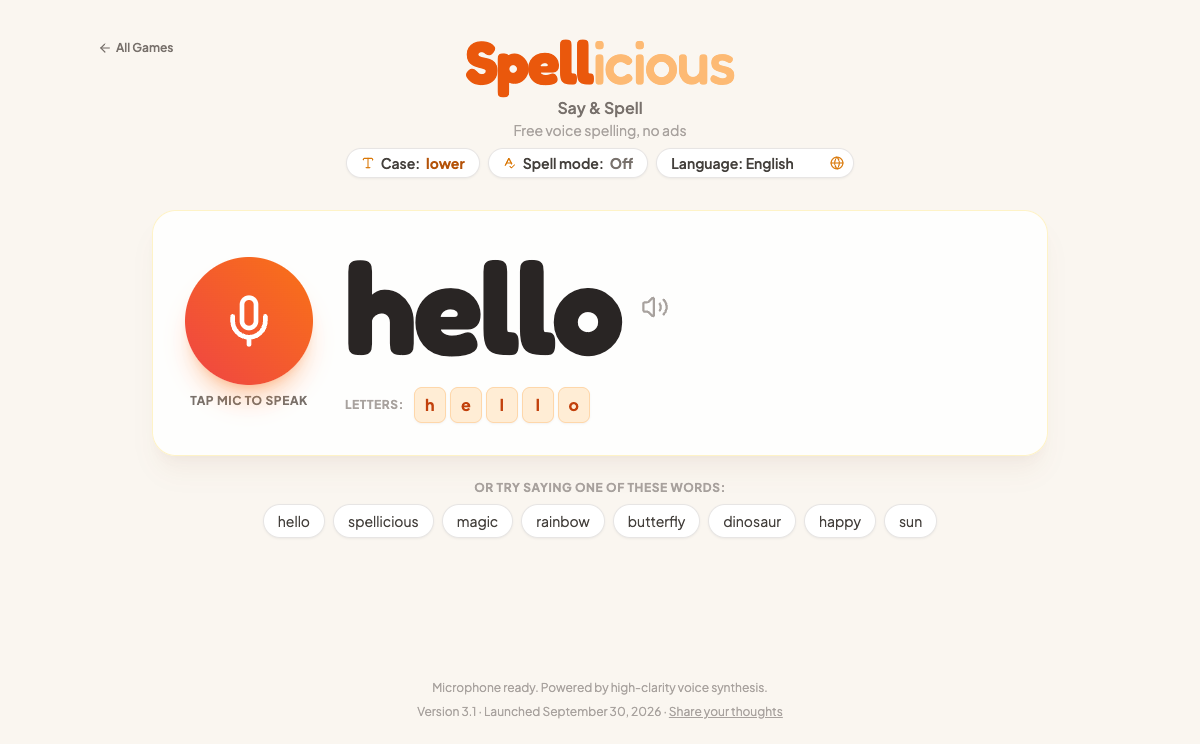
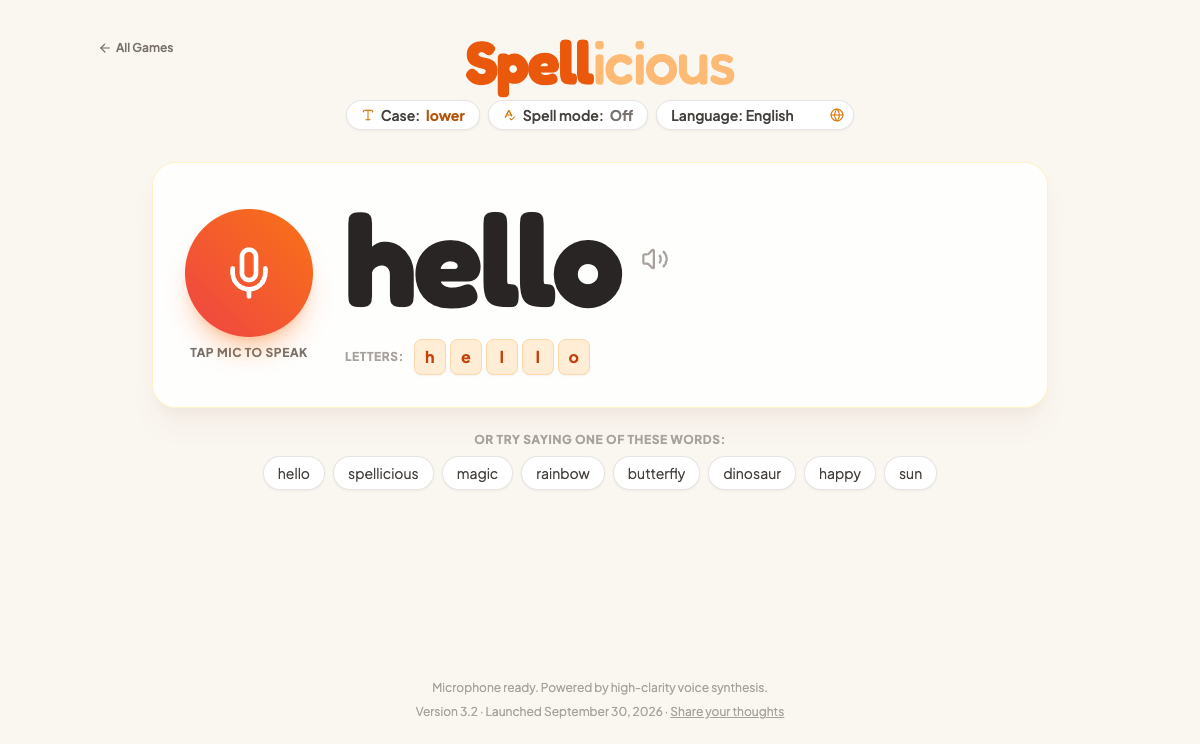
Simplify Spellicious game screen

diff --git a/spellicious/index.html b/spellicious/index.html
@@ -66,8 +66,6 @@
             <h1 class="title-font text-4xl sm:text-5xl md:text-6xl font-bold text-orange-600 tracking-tight leading-tight text-center">
                 <span class="font-bold text-orange-600">Spell</span><span class="font-medium text-orange-300">icious</span>
             </h1>
-            <p class="mt-1 text-sm sm:text-base font-semibold text-stone-500">Say &amp; Spell</p>
-            <p class="text-xs sm:text-sm text-stone-400">Free voice spelling, no ads</p>
 
             <!-- Controls row sitting directly underneath title -->
             <div class="flex flex-wrap items-center justify-center gap-2 mt-2">
@@ -160,7 +158,7 @@
     <!-- Footer Status -->
     <footer class="w-full max-w-4xl mx-auto mt-auto text-center text-xs text-stone-400 pt-4">
         <p id="statusText">Microphone ready. Powered by high-clarity voice synthesis.</p>
-        <p class="mt-2">Version 3.1 · Launched <time datetime="2026-09-30">September 30, 2026</time> · <a class="underline" href="../feedback/?game=spellicious&amp;v=3.1">Share your thoughts</a></p>
+        <p class="mt-2">Version 3.2 · Launched <time datetime="2026-09-30">September 30, 2026</time> · <a class="underline" href="../feedback/?game=spellicious&amp;v=3.2">Share your thoughts</a></p>
     </footer>
 
     <script>

diff --git a/versions/index.html b/versions/index.html
@@ -42,6 +42,7 @@
   <h2>Spellicious</h2>
   <table>
     <tr><th>Version</th><th>Released</th><th>What was in it</th></tr>
+    <tr><td><a href="spellicious/3.2/">3.2 — Cleaner app screen</a></td><td>Sep 30, 2026</td><td>Removes the promotional subtitle lines from the game screen while retaining the app-store title and description metadata.</td></tr>
     <tr><td><a href="spellicious/3.1/">3.1 — Spellicious wordmark</a></td><td>Sep 30, 2026</td><td>Makes “Spell” bold in the standard orange and “icious” lighter and thinner so the pun reads clearly.</td></tr>
     <tr><td><a href="spellicious/3.0/">3.0 — Spellicious rebrand</a></td><td>Sep 30, 2026</td><td>Renames the game Spellicious, adds the “Say &amp; Spell” title and “Free voice spelling, no ads” subtitle, and moves the live game to /spellicious/.</td></tr>
     <tr><td><a href="speller/2.7/">2.7 — Cantonese voice matching</a></td><td>Sep 30, 2026</td><td>Stops Cantonese from selecting a generic Mandarin voice; matches zh-HK/yue voices specifically and keeps the recognition language on zh-HK.</td></tr>

diff --git a/index.html b/index.html
@@ -138,7 +138,7 @@ footer { border-top: 1px solid var(--line); padding-top: 20px; color: var(--ink-
       <a class="cover" href="spellicious/" aria-label="Play Spellicious"><img src="spellicious/cover.png" alt="A warm, cream-colored Spellicious game with a microphone and giant letters" width="1200" height="744"></a>
       <div class="info">
         <h2>Spellicious</h2>
-        <p class="version"><b>Version 3.1</b> · Launched <time datetime="2026-09-30">September 30, 2026</time></p>
+        <p class="version"><b>Version 3.2</b> · Launched <time datetime="2026-09-30">September 30, 2026</time></p>
         <p>Say a word and see it appear in giant letters. Tap each letter to hear it, switch case or language, and turn on Spell mode to hear the word spelled aloud.</p>
         <ul class="tags">
           <li>Phonics</li><li>Reading</li><li>Speech</li><li>Syllables</li>

diff --git a/spellicious/HANDOFF.md b/spellicious/HANDOFF.md
@@ -1,8 +1,9 @@
 # Spellicious — Handoff Note
 
-## Update — Version 3.1
+## Update — Version 3.2
 
-- **Live:** Spellicious 3.1 is the current game at /spellicious/.
+- **Live:** Spellicious 3.2 is the current game at /spellicious/.
+- **Screen:** The app-store subtitle text is kept in metadata but removed from the visible game screen.
 - **Wordmark:** “Spell” is bold in the standard orange; “icious” is thinner and lighter for a distinct visual pun.
 - **Brand:** Official name is Spellicious; the logo hints at the pun with “Spell” + “icious”.
 - **Title:** Spellicious: Say & Spell
@@ -25,9 +26,9 @@
 - Current page: spellicious/index.html
 - Current URL: https://magicmakersfamily.github.io/games/spellicious/
 - Compatibility redirect: speller/index.html → ../spellicious/
-- Current version: 3.1
+- Current version: 3.2
 - Launch date: 2026-09-30
-- Release tag: spellicious-v3.1
-- Frozen archive: versions/spellicious/3.1/
+- Release tag: spellicious-v3.2
+- Frozen archive: versions/spellicious/3.2/
 
 Before future releases, update the shelf card, README table, feedback game map, versions/index.html, and the frozen release archive. Render spellicious/cover.png, run a browser smoke check, commit, tag, push, and verify the public URL.

diff --git a/README.md b/README.md
@@ -42,7 +42,7 @@ tools/              freeze-version.sh: freeze a tagged release into versions/
 | James’s Nature Aquarium | `aquarium/` | 3.4 | 2026-09-24 |
 | Mid-Autumn Mayhem | `mid-autumn/` | 1.7 | 2026-09-25 |
 | Blow Up (beta) | `blow-up/` | 1.4 | 2026-09-27 |
-| Spellicious | `spellicious/` | 3.1 | 2026-09-30 |
+| Spellicious | `spellicious/` | 3.2 | 2026-09-30 |
 
 Past versions stay playable at https://magicmakersfamily.github.io/games/versions/ (for
 grown-ups; each keeps its own saved games). Every release is also a git tag (`blow-up-v1.3`, …).
